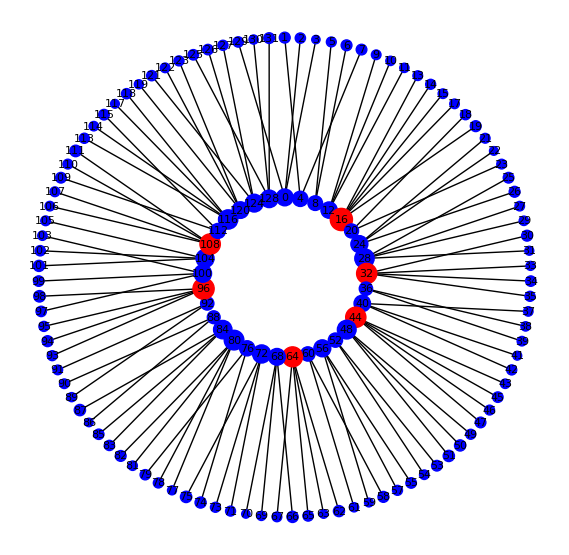
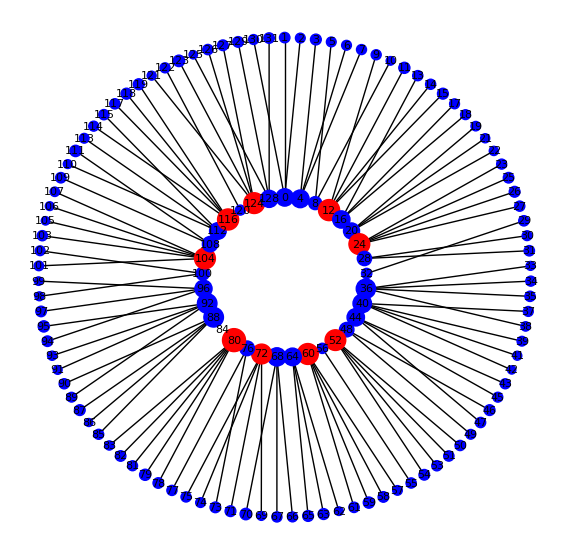
change image and setting

diff --git a/works.html b/works.html
@@ -5,7 +5,7 @@
 <meta http-equiv="Content-Type" content="text/html; charset=utf-8" />
 <meta http-equiv="Content-Style-Type" content="text/css" />
 <meta http-equiv="Content-Script-Type" content="text/javascript" />
-<title>横田　光悦のHP</title>
+<title>Koetsu Yokota</title>
 
 <meta name="description" content="横田　光悦のホームページ" />
 <link rel="stylesheet" href="index.css" type="text/css" />
@@ -13,9 +13,10 @@
 </head>
 <body>
 <div id="outer">
-<div id="header"><div id="head-inner"><h1>横田　光悦のホームページ</h1>
-<p class="description">情報をまとめるためにHPを作成しました。</p>
-<p class="description">勉強中ですので、随時更新します。</p></div>
+<div id="header"><div id="head-inner"><h1><center>横田　光悦のホームページ</center></h1><br>
+<center><p class="description"><font size="4">情報をまとめるためにHPを作成しました。</font></p></center>
+<center><p class="description"><font size="4">勉強中ですので、随時更新します。</font></p></center>
+</div>
 </div>
 
 <h2><center>
@@ -27,6 +28,71 @@
 <div id="contents">
 
 <h2>My Works</h2><br><br>
+
+<h2>競技プログラミングのために作成したライブラリ </h2>
+<p>競プロで頻繁に用いる処理をライブラリにしたものです。言語はC++です。</p>
+<details>
+    <summary>ライブラリ一覧</summary>
+    <ol>
+         <li>グラフ
+            <ul>
+                <li>幅優先探索 (BFS)</li>
+                <li>深さ優先探索 (DFS)</li>
+                <li>メモ化DFS</li>
+                <li>ワーシャルフロイド法</li>
+                <li>ダイクストラ法</li>
+                <li>辺彩色</li>
+            </ul>
+         </li>
+         <li>動的計画法 (DP)
+            <ul>
+                <li>1次元DP</li>
+                <li>2次元DP</li>
+                <li>bitDP</li>
+            </ul>
+         </li>
+         <li>数学 (整数)
+            <ul>
+                <li>エラトステネスのふるい</li>
+                <li>二項係数 (light_ver)</li>
+                <li>二項係数 (mod_ver)</li>
+                <li>二項係数 (mod_memo_ver)</li>
+                <li>重複順列</li>
+                <li>約数列挙</li>
+                <li>逆元を使った解答例</li>
+            </ul>
+         </li>
+         <li>その他データ構造
+            <ul>
+                <li>累積和</li>
+                <li>2次元累積和</li>
+                <li>BIT</li>
+                <li>セグメント木</li>
+                <li>Union-Find</li>
+                <li>重み付きUnion-Find</li>
+                <li>ダブリング</li>
+            </ul>
+         </li>
+         <li>その他
+             <ul>
+                 <li>順列全探索</li>
+                 <li>bit全探索</li>
+                 <li>しゃくとり法</li>
+                 <li>二分探索</li>
+             </ul>
+         </li>
+         <li>作れそうなもの
+            <ul>
+                <li>区間DP</li>
+                <li>最小全域木 (Prim_ver)</li>
+                <li>クリーク全列挙</li>
+                <li>最大クリーク</li>
+                <li>トポロジカルソート</li>
+            </ul>
+        </li>
+    </ol>
+</details>
+<p>近日githubに公開します</p>
 
 <h2>海洋生物たちの復讐</h2>
 <p>大学1年次に制作した初めてのゲーム作品です</p>
@@ -58,21 +124,18 @@
     <img src="images/Game2-4.png" width="160px" height="90px">
 </center><br>
 
-<h2>競技プログラミングのために作成したライブラリ </h2>
-<p>競プロで頻繁に用いる処理をライブラリにしたものです。言語はC++です。</p>
-<p>近日githubに公開します</p>
-
 <h2>卒業論文のシミュレーション結果</h2>
 <p>「ヒューリスティックソルバーによる安定した電力システムの構築と量子アニーリングによる比較」というテーマで研究を行いました.</p>
+<p>以下が研究の成果物の一部になります.</p>
 <p>こちらが<a href="https://journals.aps.org/pre/abstract/10.1103/PhysRevE.80.046112" target="_blank">先行研究のアルゴリズム</a>にしたがって, 最適化を行った図です.</p>
 <center>
     <img src="images/heuristic.gif" width="300px" height="300px">
     <br>
 </center>
-<p>量子アニーリングを用いて, 最適すると, 右の図のようになります.</p>
+<p>量子アニーリングを用いて, 最適化すると, 右の図のようになります.</p>
 <center>
     <img src="images/no_annealing.png" width="160px" height="160px">
-    <img src="images/annealing.png" width="160px" height="160px">
+    <img src="images/annealing2.png" width="160px" height="160px">
 </center><br>
 
 <p>言語はPythonで, グラフィックライブラリはNetworkXを用いました.</p>

diff --git a/link.html b/link.html
@@ -5,7 +5,7 @@
 <meta http-equiv="Content-Type" content="text/html; charset=utf-8" />
 <meta http-equiv="Content-Style-Type" content="text/css" />
 <meta http-equiv="Content-Script-Type" content="text/javascript" />
-<title>横田　光悦のHP</title>
+<title>Koetsu Yokota</title>
 
 <meta name="description" content="横田　光悦のホームページ" />
 <link rel="stylesheet" href="index.css" type="text/css" />
@@ -13,9 +13,10 @@
 </head>
 <body>
 <div id="outer">
-<div id="header"><div id="head-inner"><h1>横田　光悦のホームページ</h1>
-<p class="description">情報をまとめるためにHPを作成しました。</p>
-<p class="description">勉強中ですので、随時更新します。</p></div>
+<div id="header"><div id="head-inner"><h1><center>横田　光悦のホームページ</center></h1><br>
+<center><p class="description"><font size="4">情報をまとめるためにHPを作成しました。</font></p></center>
+<center><p class="description"><font size="4">勉強中ですので、随時更新します。</font></p></center>
+</div>
 </div>
 
 <h2><center>
@@ -25,14 +26,10 @@
 </h2><br><br>
 
 <div id="contents">
-
-  <h2>Contact</h2><br><br>
-  
-  <p>Mail: koetsu.yokota.s2 at dc.tohoku.ac.jp</p>
-  <p>送信する際にはatを@に変換してください</p><br>
-  <p>Twitterは, Baplisca<a href="https://twitter.com/sooooouls" target="_blank">(@soooools)</a>です</p>
-  
+  <h2>Contact</h2>
+  <p><font size="4">Mail: koetsu.yokota.s2 at dc.tohoku.ac.jp</font></p>
+  <p><font size="4">送信する際にはatを@に変換してください</font></p><br>
+  <p><font size="4">Twitterは, Baplisca<a href="https://twitter.com/sooooouls" target="_blank">(@soooools)</a>です</font></p>
 </div>
-<br><br>
 
 </html>

diff --git a/index.html b/index.html
@@ -13,9 +13,10 @@
 </head>
 <body>
 <div id="outer">
-<div id="header"><div id="head-inner"><h1>横田　光悦のホームページ</h1>
-<p class="description">情報をまとめるためにHPを作成しました。</p>
-<p class="description">勉強中ですので、随時更新します。</p></div>
+<div id="header"><div id="head-inner"><h1><center>横田　光悦のホームページ</center></h1><br>
+<center><p class="description"><font size="4">情報をまとめるためにHPを作成しました。</font></p></center>
+<center><p class="description"><font size="4">勉強中ですので、随時更新します。</font></p></center>
+</div>
 </div>
 
 <h2><center>
@@ -81,6 +82,12 @@
     <li>ゲーム制作 <a href="works.html"　target="_blank">作品はこちら</a></li>
     <br>
 </ul>
+
+<h2>Update</h2><br>
+<div class="scroll">
+    <p>更新内容: 競プロライブラリの文字表示, 一部画像の差し替え, 連絡先の文字サイズ変更, その他表示文字変更 2020.5.28</p>
+    <p>HP作成 2020.5.24</p>
+</div>
 <br><br>
 
 </div>

diff --git a/index.css b/index.css
@@ -36,13 +36,12 @@ color:#333333;
 font-size:14px;
 }
 ul {
-    margin: 0 0 0 1em;
-    padding: 0;
-    }
-li {
-    list-style:square; 
+    list-style-type: square;
 }
 
+ol {
+    list-style-type: decimal;
+}
 P {
 margin:1em 0 1em 0;
 line-height:150%;
@@ -60,7 +59,7 @@ a{
 font-weight:normal;
 }
 h1 {
-font-size:24px;
+font-size:30px;
 font-weight:bold;
 text-align:left;
 padding:30px 0px 0px 10px;
@@ -119,3 +118,12 @@ padding:5px;
 margin:10px;
 }
 
+.mgr-10{
+    margin-right : 20px;
+}
+div.scroll {
+    height: 6.3em; 
+   overflow: scroll; 
+   border: blue 1px dashed;  
+   background-color: #f0f8ff; 
+}
